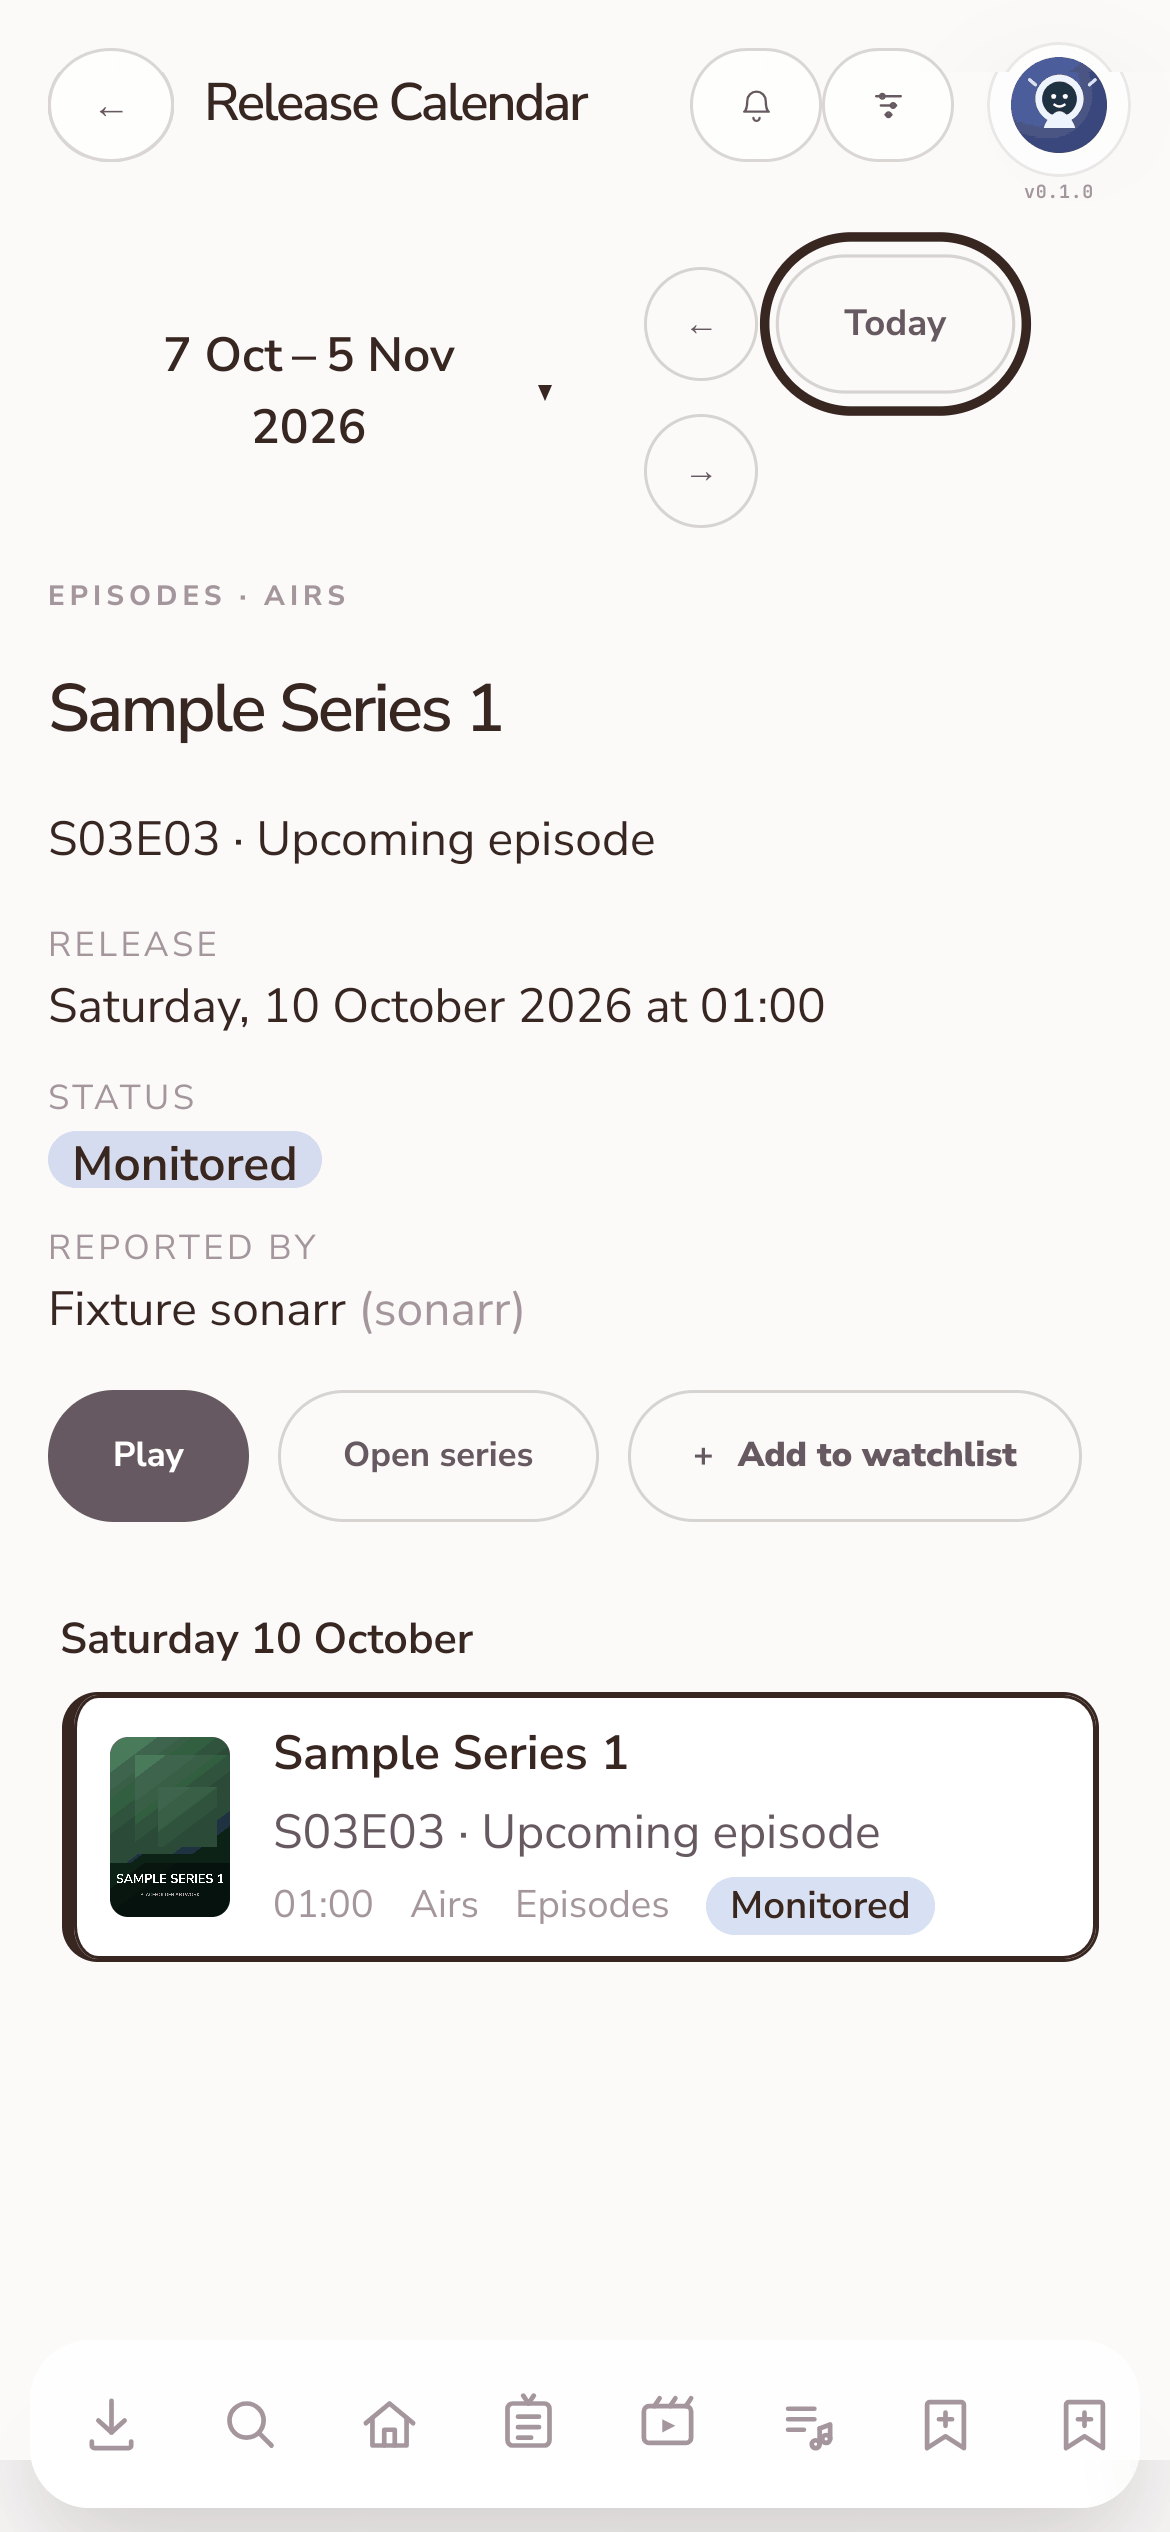
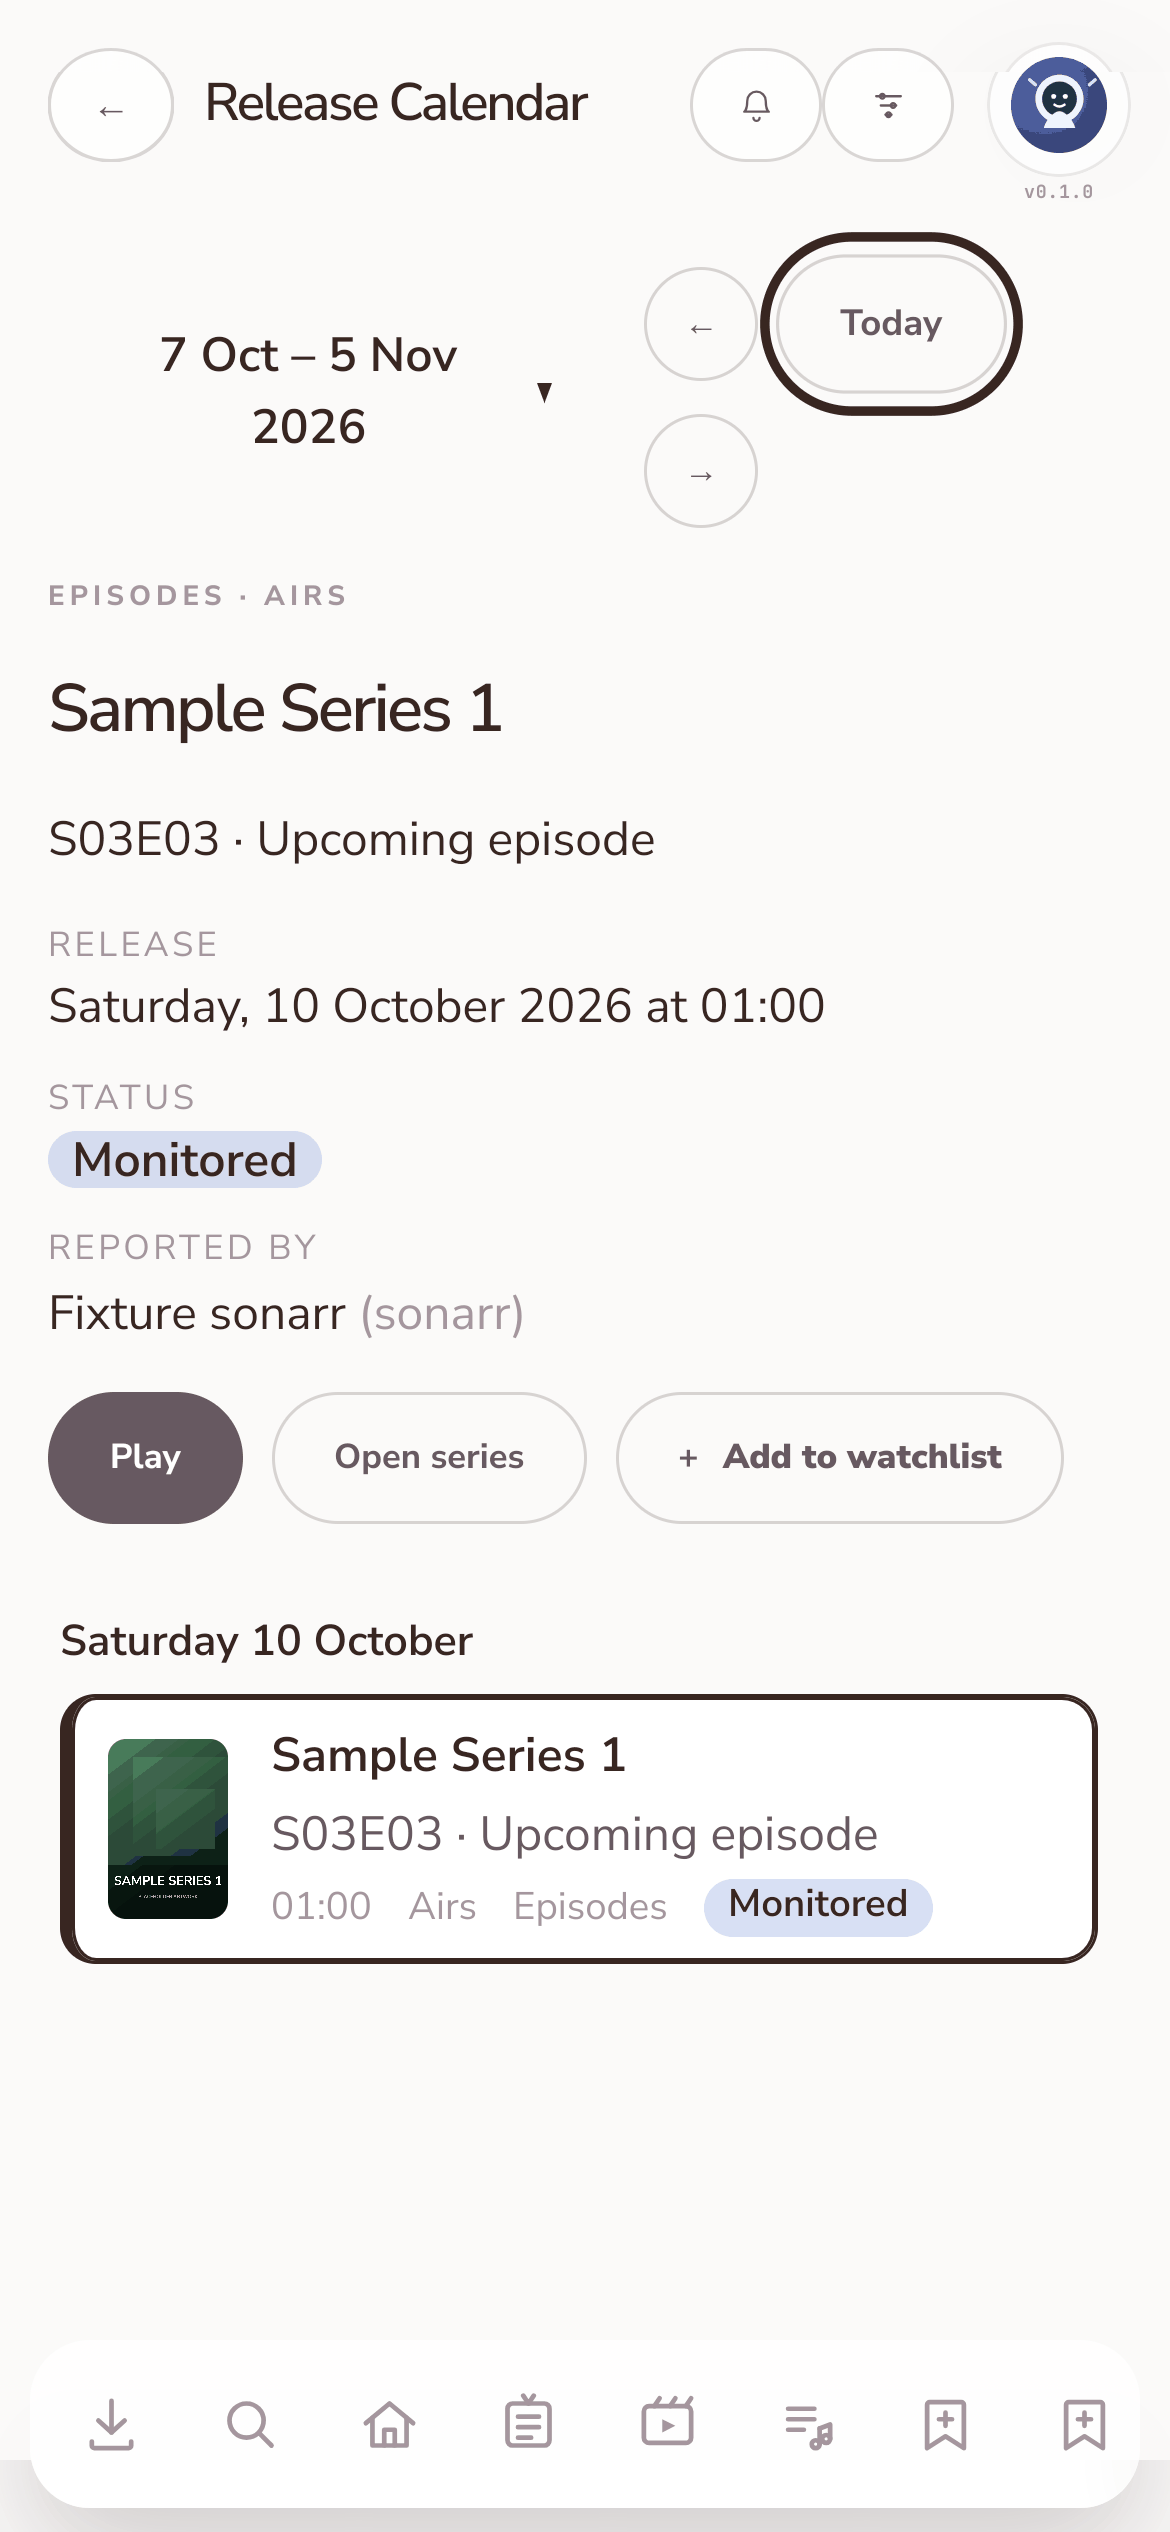
feat(android): phone calendar header and details, quality-button highlight, justified raster residue (row 530) (#152)
Calendar 2.5% to 1.9% light (1.8% dark): the date range used a thin space where the web's ICU uses an ordinary one (the +2.4% ink difference), the status badge and sources rows sat 1.3 dp off, the Today ring and pill spacing now follow the web. The quality menu goes 1.6% to 1.2% chrome only: the web highlights the quality button with a 15% disc at 1.08x while the menu is open. README records settings, series-detail (light) and household (light) as sub-pixel rasterisation residue with measured ink widths (0.988 to 1.003 Android over web). Captures, reports and the results table are re-measured in both themes on a fresh fixture.

Merge-Train: yes

diff --git a/clients/android/app/src/main/kotlin/io/playarr/mobile/ui/PlayarrCalendar.kt b/clients/android/app/src/main/kotlin/io/playarr/mobile/ui/PlayarrCalendar.kt
@@ -285,7 +285,7 @@ private fun PhoneCalendarHeader(state: CalendarUiState, locale: Locale, holder: 
                 )
                 // The web draws a "▼" glyph from a fallback font: a solid 6 x 5.4 triangle.
                 val ink = WebInk
-                androidx.compose.foundation.Canvas(Modifier.padding(start = 1.dp).size(width = 6.1.dp, height = 5.4.dp)) {
+                androidx.compose.foundation.Canvas(Modifier.padding(start = 0.5.dp).size(width = 7.6.dp, height = 6.8.dp)) {
                     val path = androidx.compose.ui.graphics.Path().apply {
                         moveTo(0f, 0f); lineTo(size.width, 0f); lineTo(size.width / 2f, size.height); close()
                     }
@@ -300,7 +300,7 @@ private fun PhoneCalendarHeader(state: CalendarUiState, locale: Locale, holder: 
             val ring = WebInk
             Surface(
                 onClick = holder::goToToday,
-                modifier = Modifier.offset(x = 46.dp, y = 0.dp).size(75.6.dp, 44.dp)
+                modifier = Modifier.offset(x = 46.dp, y = 0.dp).size(73.1.dp, 44.dp)
                     .graphicsLayer { scaleX = 1.055f; scaleY = 1.055f }
                     .drawBehind {
                         val grow = 3.5.dp.toPx()
@@ -344,6 +344,8 @@ private fun phoneCalendarRangeTitle(mode: CalendarViewMode, anchor: LocalDate, w
     val format = android.icu.text.DateIntervalFormat.getInstance("yMMMd", locale)
     format.timeZone = android.icu.util.TimeZone.getTimeZone("UTC")
     return format.format(android.icu.util.DateInterval(millis(window.start), millis(if (mode == CalendarViewMode.Agenda) window.end.minusDays(1) else window.end)), StringBuffer(), java.text.FieldPosition(0)).toString()
+        // CLDR 46 (the web's ICU) separates the range with an ordinary space; the device's older data uses a thin space.
+        .replace('\u2009', ' ').replace('\u202f', ' ')
 }
 
 /** Web phone agenda: the selected release's details first, then the day list. */
@@ -450,11 +452,11 @@ private fun PhoneCalendarDetails(item: CalendarItem, locale: Locale, zone: ZoneI
                             withStyle(androidx.compose.ui.text.SpanStyle(color = WebInkMuted)) { append("(${source.sourceKind})") }
                         }
                     },
-                    color = WebInk, fontSize = 16.sp, lineHeight = 24.sp, style = WebTextStyle,
+                    color = WebInk, fontSize = 16.sp, lineHeight = 24.sp, style = WebTextStyle, modifier = Modifier.offset(y = 1.33.dp),
                 )
             }
         }
-        Spacer(Modifier.height(14.4.dp))
+        Spacer(Modifier.height(15.1.dp))
         val holderState by actions.state.collectAsState()
         val snapshot = entry.snapshot
         val request = entry.action(io.playarr.shared.data.model.CalendarAction.REQUEST)
@@ -508,7 +510,7 @@ private fun PhoneCalendarBadge(label: String, size: androidx.compose.ui.unit.Tex
             .background(Color(0xFF5B7FD1).copy(alpha = 0.24f), CircleShape).padding(horizontal = 8.dp),
         contentAlignment = Alignment.Center,
     ) {
-        Text(label, color = WebInk, fontSize = size, lineHeight = 19.sp, fontWeight = FontWeight(640), style = WebTextStyle, maxLines = 1)
+        Text(label, color = WebInk, fontSize = size, lineHeight = 19.sp, fontWeight = FontWeight(640), style = WebTextStyle, maxLines = 1, modifier = Modifier.offset(y = (-1.33).dp))
     }
 }
 
@@ -520,7 +522,7 @@ private fun PhoneCalendarPill(label: String, glyph: String? = null, enabled: Boo
         contentColor = if (primary) (if (webIsDark) Color(0xFF151315) else Color.White) else WebInkSoft,
         border = if (primary) null else BorderStroke(1.dp, WebPillBorder), modifier = Modifier.height(44.dp),
     ) {
-        Row(Modifier.padding(horizontal = 21.7.dp), verticalAlignment = Alignment.CenterVertically, horizontalArrangement = Arrangement.spacedBy(8.dp)) {
+        Row(Modifier.padding(horizontal = 20.6.dp), verticalAlignment = Alignment.CenterVertically, horizontalArrangement = Arrangement.spacedBy(8.dp)) {
             if (glyph != null) Text(glyph, color = WebInkSoft, fontSize = 11.52.sp, lineHeight = 17.28.sp, fontWeight = FontWeight(720), style = WebTextStyle)
             Text(label, fontSize = 11.52.sp, lineHeight = 17.28.sp, fontWeight = FontWeight(if (glyph != null) 900 else 720), style = WebTextStyle, maxLines = 1)
         }
@@ -547,7 +549,7 @@ private fun PhoneCalendarEntry(item: CalendarItem, selected: Boolean, zone: Zone
     val fill = WebSurfaceStrong
     Surface(
         onClick = onClick,
-        modifier = Modifier.padding(start = 4.7.dp, end = 7.7.dp).fillMaxWidth().height(90.dp).then(
+        modifier = Modifier.padding(start = 4.dp, end = 8.dp).fillMaxWidth().height(90.dp).then(
             if (selected) {
                 // `.calendar-entry.is-selected`: a 4 px left border and 1 px borders in ink, plus a 1 px inset ring, so the
                 // padding box has a rounder inner left edge than the outer shape.

diff --git a/clients/android/app/src/main/kotlin/io/playarr/mobile/ui/PlayarrPhonePlayer.kt b/clients/android/app/src/main/kotlin/io/playarr/mobile/ui/PlayarrPhonePlayer.kt
@@ -51,6 +51,7 @@ import androidx.compose.ui.draw.alpha
 import androidx.compose.ui.draw.clip
 import androidx.compose.ui.graphics.Brush
 import androidx.compose.ui.graphics.Color
+import androidx.compose.ui.graphics.graphicsLayer
 import androidx.compose.ui.graphics.vector.ImageVector
 import androidx.compose.ui.input.pointer.pointerInput
 import androidx.compose.ui.platform.LocalContext
@@ -274,6 +275,14 @@ internal fun BoxScope.PhonePlayerOverlay(
                     Modifier
                         .size(42.dp)
                         .then(if (controls.qualityOptions.isEmpty() || controls.switching) Modifier.alpha(0.76f) else Modifier)
+                        // `.player-quality-button[aria-expanded="true"]`: a 15% white disc and 1.08x while its menu is open.
+                        .then(
+                            if (openMenu == PlayarrPlayerMenu.Quality) {
+                                Modifier.graphicsLayer { scaleX = 1.08f; scaleY = 1.08f }.background(Color.White.copy(alpha = 0.15f), CircleShape)
+                            } else {
+                                Modifier
+                            },
+                        )
                         .clickable(enabled = controls.qualityOptions.isNotEmpty() && !controls.switching) {
                             onMenu(if (openMenu == PlayarrPlayerMenu.Quality) null else PlayarrPlayerMenu.Quality)
                         }

diff --git a/docs/parity/android-mobile/README.md b/docs/parity/android-mobile/README.md
@@ -15,14 +15,14 @@ Mismatch against the web reference of the same theme, system bars masked (see be
 | --- | ---: | ---: | --- |
 | home | 0.95% | 0.85% | pass |
 | movies | 0.53% | 0.52% | pass |
-| series | 0.42% | 0.44% | pass |
+| series | 0.42% | 0.42% | pass |
 | film-detail | 1.00% | 0.98% | pass |
 | series-detail | 1.13% | 0.71% | above 1% |
-| search | 0.68% | 0.75% | pass |
-| calendar | 2.54% | 2.39% | above 1% |
+| search | 0.66% | 0.75% | pass |
+| calendar | 1.91% | 1.80% | above 1% |
 | settings | 1.02% | 1.04% | above 1% |
 | player-controls | 0.55% | 0.55% | pass |
-| player-quality-menu | 1.60% | 1.60% | above 1% |
+| player-quality-menu | 1.22% | 1.22% | above 1% |
 | profile-switcher | 0.97% | 0.97% | pass |
 | household-blocked | 1.02% | 0.99% | above 1% |
 
@@ -33,11 +33,18 @@ The screens at or below 1% have no difference worth a justification. The rest:
   are chrome only. Chromium and Android's MediaCodec convert the untagged test clip's YUV to RGB with different matrices (for
   example the cyan bar is `0, 206, 229` on the web and `3, 229, 229` on Android), which is why the frame itself cannot match.
   The quality menu blurs what is behind it on Android 12 and later (a window the size of the panel with the system background
-  blur on, 24 dp) and is drawn in place without blur below API 31, where the 90% tint hides most of the difference.
-- Screens still above 1% (series-detail, calendar, settings, household-blocked): every text row sits within 1 to 3 px of the web (measured per row)
-  and no layout difference remains; what is left is glyph anti-aliasing and sub-pixel advance differences between Chromium's
-  and Android's rasterisers on the same font file, and 1 px edges of pills and borders. They are not claimed as justified
-  beyond that; calendar is the largest (its agenda card and pill text carry most of it).
+  blur on, 24 dp) and is drawn in place without blur below API 31. What remains on the menu (about 1.2%) is the matrix cells'
+  text and 1 px borders.
+- **settings, series-detail (light), household-blocked (light)**: justified as sub-pixel glyph rasterisation and
+  anti-aliasing residue (Chromium's rasteriser against Skia's on the same outlines), each at most about 1.1%. Layout and text
+  widths agree: measured as ink width, Android over web, on the committed references: settings title 241 over 244 px (0.988),
+  settings subtitle 693 over 698 (0.993), film-detail title 592 over 594 (0.997), film-detail meta line 785 over 783 (1.003),
+  home rail heading 347 over 348 (0.997), profile heading 858 over 861 (0.997). Text rows sit within 1 px of the web.
+  Compose's `TextMotion.Animated` is on (unhinted, subpixel), letter-spacing equals the web's px value and the font file is the
+  web's exact instance, so there is no remaining width or font difference to remove.
+- **calendar** (1.9% light, 1.8% dark) is above 1% and not claimed as justified: its text rows are within 1 px, the selected
+  agenda card, the pills and the date range now take the web's measurements, and what is left is mostly anti-aliasing of the
+  many small text runs plus 1 px pill and ring edges.
 
 ## What the phone client does to match
 

diff --git a/CHANGELOG.md b/CHANGELOG.md
@@ -206,6 +206,7 @@ uses [Semantic Versioning](https://semver.org/spec/v2.0.0.html).
 
 ### Changed
 
+- Android phone calendar: header range, date row, detail rows and the agenda card follow the web more closely, and the open quality menu highlights its button; parity results record the justified residue.
 - Android TV settings follows the web TV layout: a wide numbered section list with the selected section's panel beside it.
 - Android TV series detail: overview and button row spacing follow the web, and the series-level Download button (not on the web) is gone.
 - Android phone and TV embed the web's exact Nunito Sans instance (docs/parity/fonts/NunitoSans-wght-web.ttf); phone parity re-measured in light and dark.
